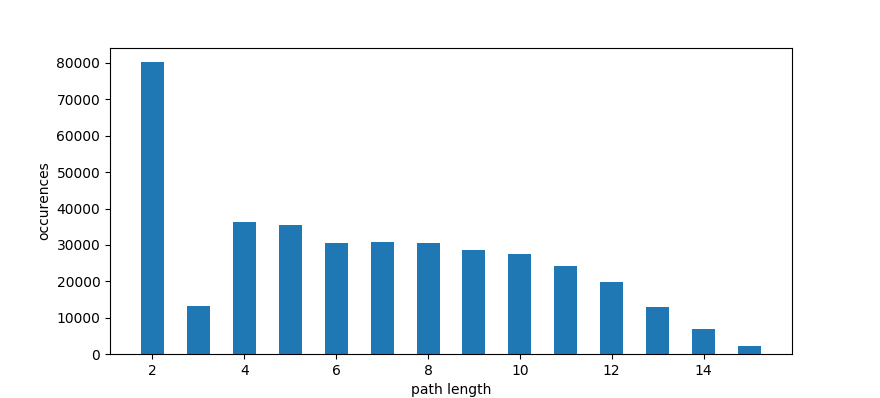
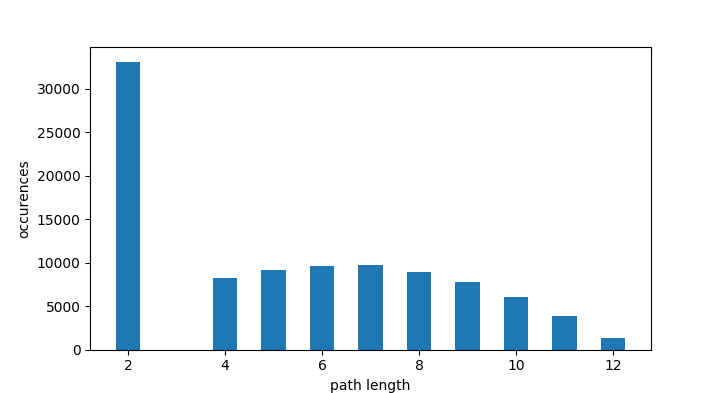
minor change

diff --git a/README.md b/README.md
@@ -52,22 +52,22 @@ Back to the general case, the problem of finding the number (or a formula/proced
 For example, given the following adjacency matrix:
 ```python
 ==> adjacency matrix:
-[[0 0 0 1 0 0 1 0 1 1 0 1]
- [0 0 0 0 1 0 0 1 1 1 0 0]
- [0 0 0 0 0 0 1 0 1 1 0 0]
- [1 0 0 0 0 1 0 0 0 1 0 1]
- [0 1 0 0 0 0 0 0 1 0 0 1]
- [0 0 0 1 0 0 0 0 1 1 0 1]
- [1 0 1 0 0 0 0 0 1 1 0 1]
- [0 1 0 0 0 0 0 0 1 0 1 1]
- [1 1 1 0 1 1 1 1 0 1 0 0]
- [1 1 1 1 0 1 1 0 1 0 1 1]
- [0 0 0 0 0 0 0 1 0 1 0 1]
- [1 0 0 1 1 1 1 1 0 1 1 0]]
-==> node set: [0  1  2  3  4  5  6  7  8  9 10 11]
-==> start/end: 3->5
-==> exact number of paths: 1357
-==> [naive] estimated number of paths: 1337.82616
+[[0 1 1 0 0 0 1 1 0 1 1 0]
+ [1 0 0 1 0 0 1 0 1 1 1 0]
+ [1 0 0 1 1 0 1 0 0 0 1 1]
+ [0 1 1 0 0 0 0 1 1 0 1 1]
+ [0 0 1 0 0 0 0 1 0 0 0 1]
+ [0 0 0 0 0 0 0 1 0 1 1 1]
+ [1 1 1 0 0 0 0 0 0 0 1 1]
+ [1 0 0 1 1 1 0 0 1 1 1 0]
+ [0 1 0 1 0 0 0 1 0 0 0 0]
+ [1 1 0 0 0 1 0 1 0 0 0 0]
+ [1 1 1 1 0 1 1 1 0 0 0 0]
+ [0 0 1 1 1 1 1 0 0 0 0 0]]
+==> node set: [ 0  1  2  3  4  5  6  7  8  9 10 11]
+==> start/end: 4->7
+==> exact number of paths: 3759
+==> [naive] estimated number of paths: 3790.03935
 ```
 
 We can first observe that the estimated number of paths--calculated using eq.(1)--is rather close to the actual number, after 400.000 runs of `naive_path_generation`. Second, the distribution of generated paths lengths is shown below; we can clearly observe the bias toward shorter paths (as pointed out by the authors), since longer paths are more likely to reach "dead ends" along the way.
